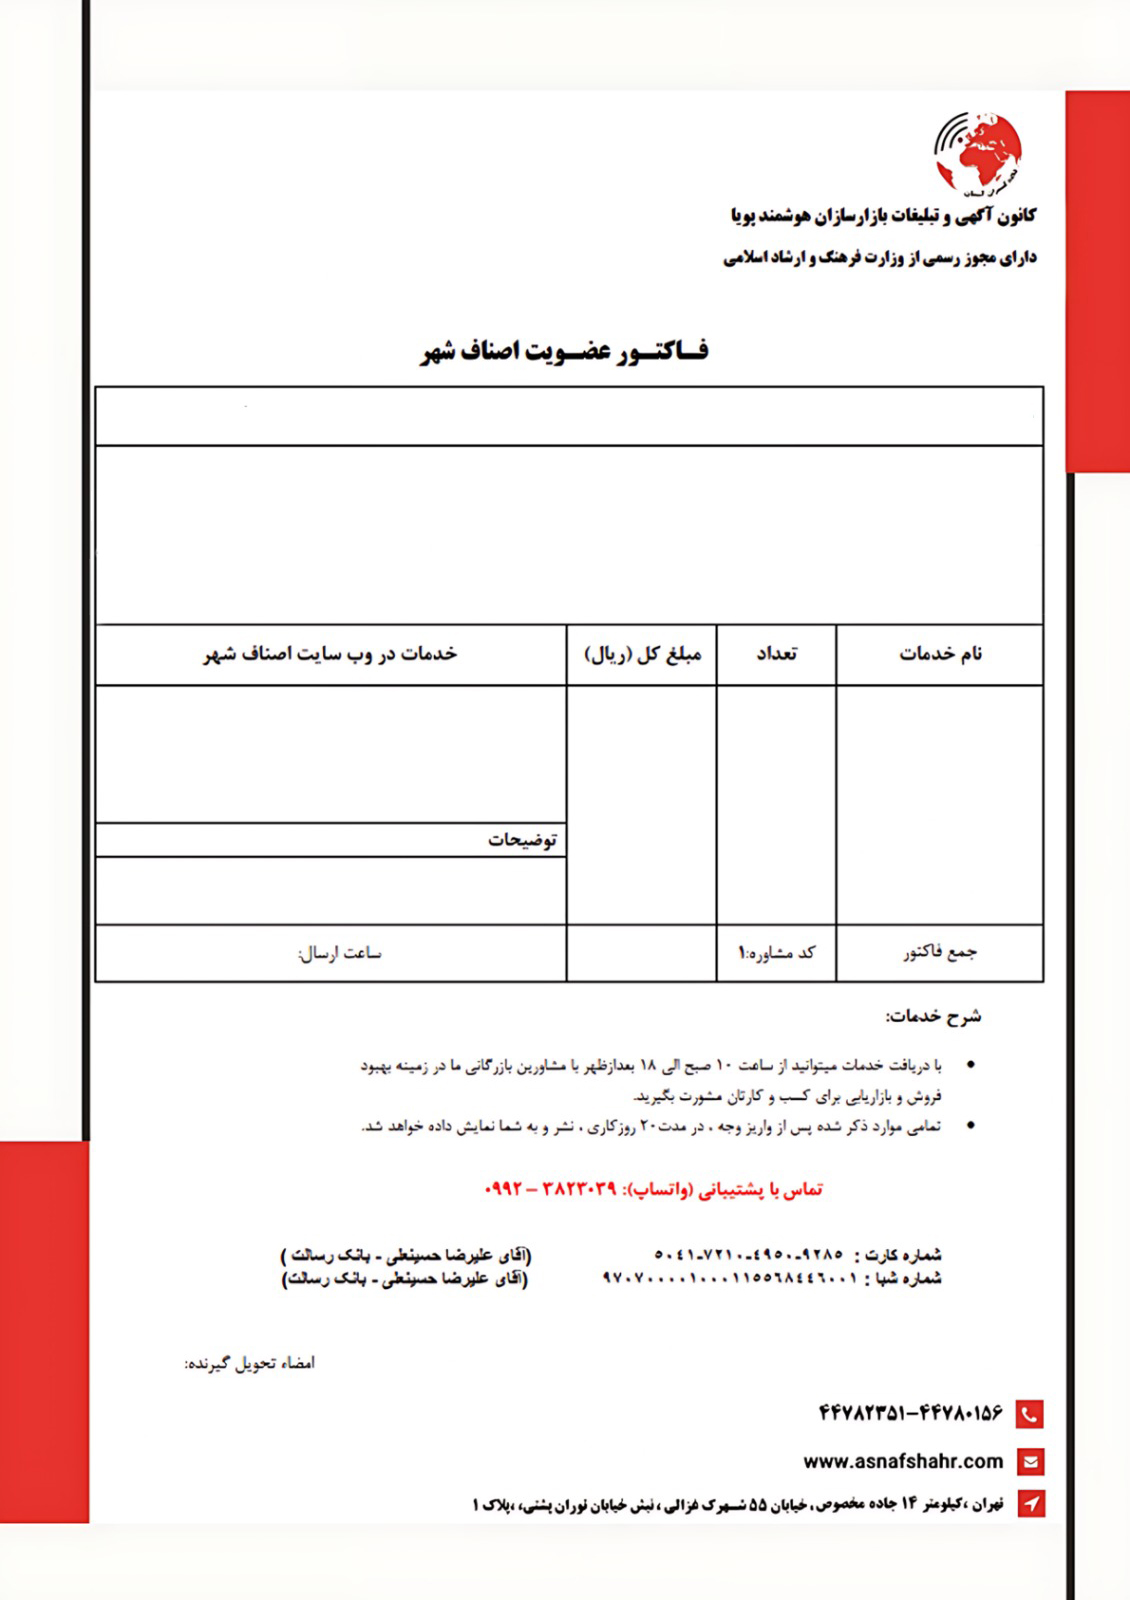
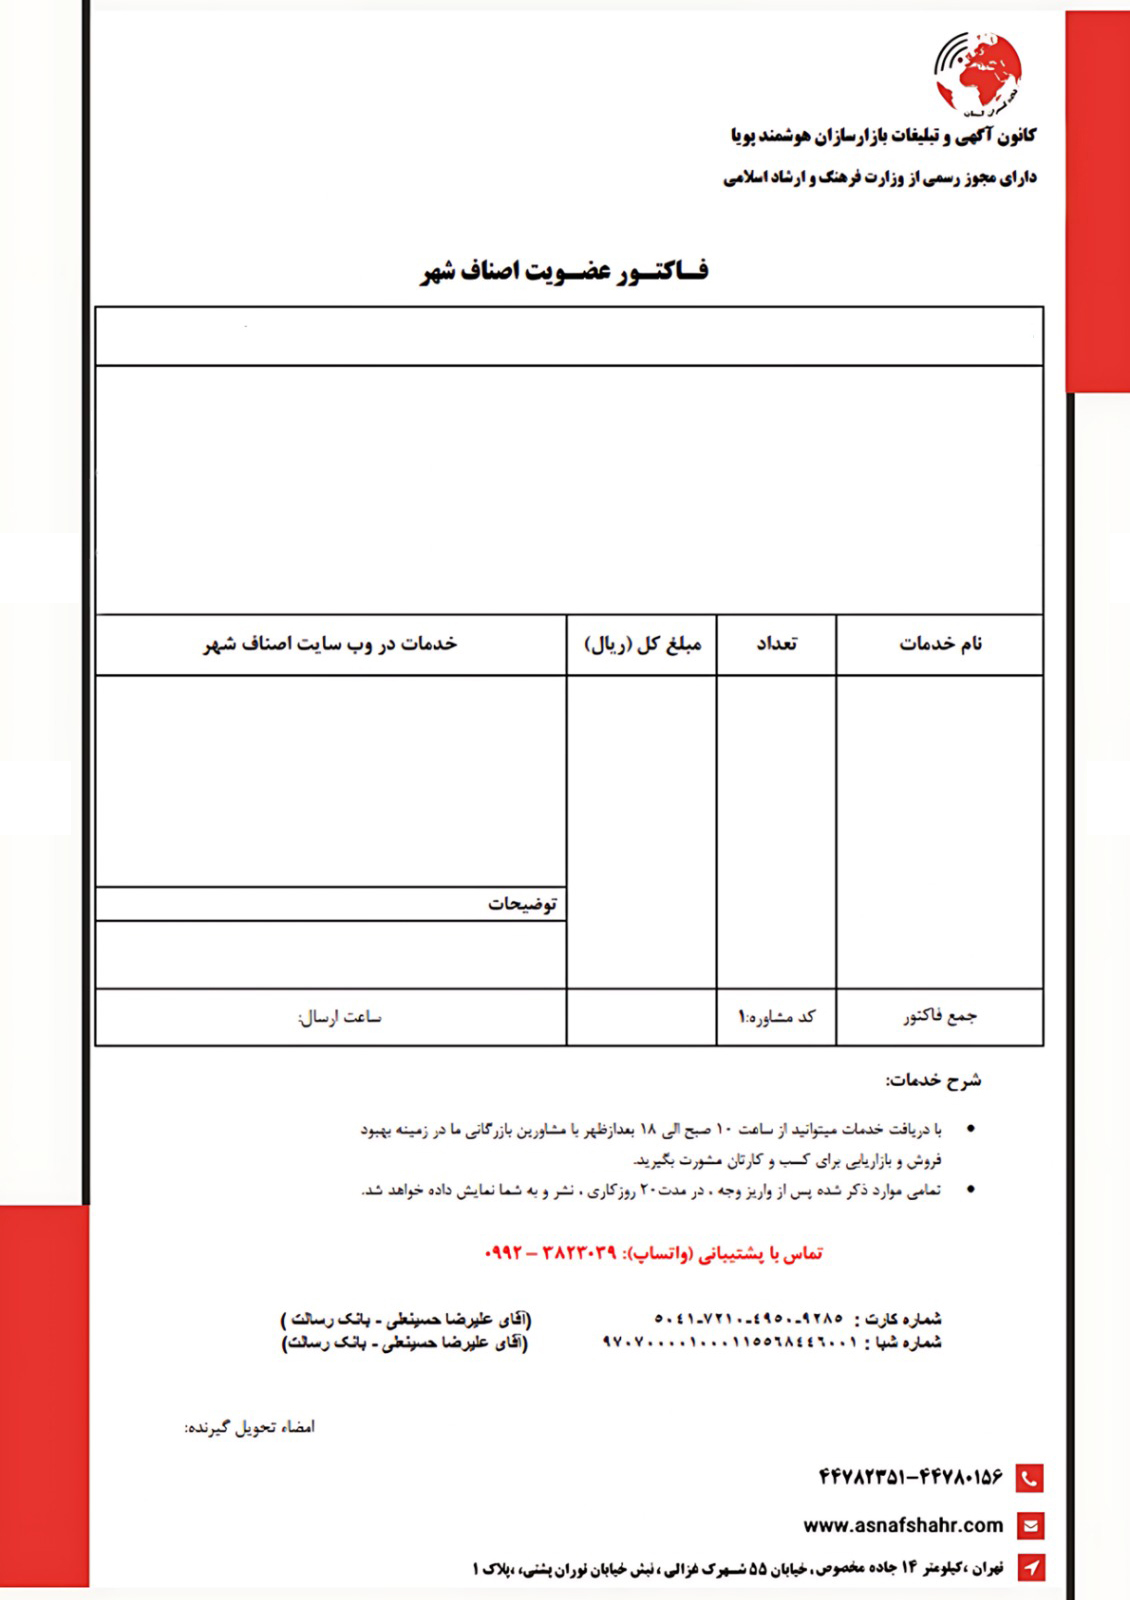
change

diff --git a/invoice/views.py b/invoice/views.py
@@ -22,6 +22,7 @@ def generate_invoice_pdf(request, pk):
     filename = f"فاکتور_{invoice.invoice_number}.pdf"
     response["Content-Disposition"] = f'inline; filename="{filename}"'
 
+    # تبدیل تاریخ میلادی به شمسی
     jalali_date = jdatetime.date.fromgregorian(date=invoice.date)
     jalali_date_str = f"{jalali_date.year}/{jalali_date.month}/{jalali_date.day}"
 
@@ -29,7 +30,7 @@ def generate_invoice_pdf(request, pk):
     width, height = A4
     margin = 40
 
-    # paths to fonts
+    # مسیر فونتها
     font_path = os.path.join(
         settings.BASE_DIR, "invoice", "static", "invoice", "fonts", "BTitrBold_0.ttf"
     )
@@ -45,78 +46,90 @@ def generate_invoice_pdf(request, pk):
         raise FileNotFoundError(f"فونت پیدا نشد: {nazanin_path}")
     pdfmetrics.registerFont(TTFont("Nazanin", nazanin_path))
 
-    # helper for Farsi display
+    # کمککننده برای نمایش فارسی
     def farsi(text):
         if not text:
             return ""
         reshaped = arabic_reshaper.reshape(str(text))
         return get_display(reshaped)
 
-    # helper for wrapping text
+    # کمککننده برای شکستن متن طولانی
     def fit_text(text, max_chars_per_line=60):
         return wrap(str(text), max_chars_per_line)
 
-    # background image
+    # پسزمینه فاکتور
     bg_path = os.path.join(
         settings.BASE_DIR, "invoice", "static", "invoice", "pics", "invoice_template.png"
     )
     if os.path.exists(bg_path):
         c.drawImage(bg_path, 0, 0, width=width, height=height, preserveAspectRatio=True)
 
-    # font sizes
-    default_font_size = 11  # ثابت برای متنهای عمومی
+    # سایز فونتها
+    default_font_size = 11
     special_font_size = invoice.font_size or default_font_size
 
-    # invoice header (سایز ثابت)
+    # --- سربرگ فاکتور ---
     c.setFont("Titr", default_font_size)
-    c.drawString(90, height - margin - 76, farsi(f"شماره فاکتور: {invoice.invoice_number}"))
-    c.drawString(88, height - margin - 98, farsi(f"تاریخ: {jalali_date_str}"))
+    c.drawString(90, height - margin - 30, farsi(f"شماره فاکتور: {invoice.invoice_number}"))
+    c.drawString(88, height - margin - 45, farsi(f"تاریخ: {jalali_date_str}"))
+
+    # 👇 ساعت ارسال (از پنل ادمین)
+    if invoice.send_time:
+        formatted_send_time = invoice.send_time.strftime("%H:%M")
+    else:
+        formatted_send_time = "—"
+    # پایین صفحه سمت چپ
+    c.setFont("Nazanin", 10)
+    c.drawString(130, 305, farsi(formatted_send_time))
 
     y = height - margin - 120
-    c.drawRightString(width - margin - 8, y + 1, farsi(f"شماره مجوز: {invoice.license_number or '-'}"))
-    c.drawRightString(width - margin - 11, y - 56, farsi(f"مدیریت: {invoice.agency_manager or '-'}"))
-    c.drawRightString(width - margin - 360, y - 56, farsi(f"نام صنف: {invoice.business_name or '-'}"))
+    c.setFont("Titr", default_font_size)
+    c.drawRightString(width - margin - 8, y + 40, farsi(f"شماره مجوز: {invoice.license_number or '-'}"))
+    c.drawRightString(width - margin - 11, y - 20, farsi(f"مدیریت: {invoice.agency_manager or '-'}"))
+    c.drawRightString(width - margin - 330, y - 20, farsi(f"نام صنف: {invoice.business_name or '-'}"))
 
-    # address (فقط از فیلد address و با سایز خاص)
-    c.setFont("Titr", special_font_size)
-    address_lines = fit_text(invoice.address or '-', 60)
-    for i, line in enumerate(address_lines):
-        c.drawRightString(
-            width - margin - 10,
-            y - 108 - (i * (special_font_size + 2)),
-            farsi(line)
-        )
+    # آدرس (شمارهدار)
+    c.setFont("Nazanin", special_font_size)
+    raw_lines = (invoice.address or '-').splitlines()
 
-    # phone numbers (سایز خاص)
-    c.setFont("Titr", special_font_size)
+    for i, line in enumerate(raw_lines):
+        numbered_line = f"{i + 1} - {line.strip()}"
+        wrapped_lines = fit_text(numbered_line, 60)
+        for j, wline in enumerate(wrapped_lines):
+            c.drawRightString(
+                width - margin - 10,
+                y - 45 - ((i + j) * (special_font_size + 3)),
+                farsi(wline)
+            )
+
+    # شماره تماس — ✅ اصلاح شد: استفاده از raw_lines
     c.drawRightString(
         width - margin - 10,
-        y - 127 - (len(address_lines) * (special_font_size + 2)),
+        y - 85 - (len(raw_lines) * (special_font_size + 2)),
         farsi(f"تماس: {invoice.phone_numbers or '-'}")
     )
 
-    # service first description (سایز خاص)
+    # توضیح اولین خدمت
     if services.exists():
-        c.setFont("Titr", special_font_size)
-        # شکستن متن بر اساس خطهای جدید (Shift+Enter) یا طول زیاد
-        raw_lines = (services[0].description or '-').splitlines()
+        c.setFont("Nazanin", special_font_size)
+        service_lines = (services[0].description or '-').splitlines()
         desc_texts = []
-        for line in raw_lines:
-            desc_texts.extend(fit_text(line, 60))  # حتی اگه یک خط طولانی بود، بشکنش
+        for line in service_lines:
+            desc_texts.extend(fit_text(line, 60))
 
         base_y = y - 210
         for i, line in enumerate(desc_texts):
             c.drawRightString(
                 width - margin - 263,
-                base_y - (i * (special_font_size + 3)),  # فاصله بیشتر بین خطوط
+                base_y - (i * (special_font_size + 3)),
                 farsi(line)
             )
 
-    # invoice general description (سایز ثابت)
-    c.setFont("Titr", default_font_size)
-    c.drawRightString(width - margin - 263, y - 300, farsi(f"{invoice.description or '-'}"))
+    # توضیحات عمومی فاکتور
+    c.setFont("Nazanin", default_font_size)
+    c.drawRightString(width - margin - 263, y - 335, farsi(f"{invoice.description or '-'}"))
 
-    # services table
+    # جدول خدمات
     total = 0
     len_s = 0
     for s in services:
@@ -125,24 +138,17 @@ def generate_invoice_pdf(request, pk):
         len_s += 20
         amount_str = f"{int(s.amount):,}" if s.amount else "0"
 
-        # service name (سایز ثابت بزرگتر)
         c.setFont("Nazanin", default_font_size + 3)
-        c.drawRightString(
-            width - margin - 40,
-            y - (y_s + len_s),
-            farsi(f"{s.name_farsi}")
-        )
+        c.drawRightString(width - margin - 40, y - (y_s + len_s), farsi(f"{s.name_farsi}"))
 
-        # quantity and amount (سایز ثابت)
-        c.setFont("Titr", default_font_size)
-        c.drawRightString(width - margin - 142, y - (y_s + len_s), farsi(f"{s.quantity}"))
+        c.setFont("Nazanin", default_font_size)
+        c.drawRightString(width - margin - 142, y - (y_s + len_s), farsi(str(s.quantity)))
         c.drawRightString(width - margin - 190, y - (y_s + len_s), farsi(f"{amount_str * s.quantity}"))
 
-    # total amount (سایز ثابت)
+    # جمع کل
     total_str = f"{int(total):,}"
-    c.drawRightString(width - margin - 190, y - 345, farsi(f"{total_str}"))
+    c.drawRightString(width - margin - 187, y - 376, farsi(total_str))
 
     c.showPage()
     c.save()
-
     return response

diff --git a/invoice/admin.py b/invoice/admin.py
@@ -1,53 +1,67 @@
-# invoice/admin.py
 from django.contrib import admin
 from django.utils.html import format_html
 from django.urls import reverse
+from django import forms
 from .models import Invoice, ServiceItem
+
+
+class InvoiceAdminForm(forms.ModelForm):
+    """فرم سفارشی برای کنترل ساعت ارسال (HH:MM)"""
+    class Meta:
+        model = Invoice
+        fields = "__all__"
+        widgets = {
+            "send_time": forms.TimeInput(format="%H:%M"),
+        }
 
 
 class ServiceItemInline(admin.TabularInline):
     """نمایش خدمات مربوطه در پایین صفحه فاکتور داخل پنل ادمین"""
     model = ServiceItem
-    extra = 1  # تعداد خطوط خالی برای افزودن خدمت جدید
-    fields = ('service_name', 'quantity', 'amount', 'description')
+    extra = 1
+    fields = ("service_name", "quantity", "amount", "description")
     verbose_name = "خدمت"
     verbose_name_plural = "خدمات"
-    # فیلدهای choice (service_name) به صورت select خودکار نشان داده میشوند چون choices در مدل تنظیم شده
 
 
 @admin.register(Invoice)
 class InvoiceAdmin(admin.ModelAdmin):
     """مدیریت فاکتورها در پنل ادمین"""
+    form = InvoiceAdminForm
     list_display = (
-        'id',
-        'invoice_number',
-        'business_name',
-        'agency_manager',
-        'total_price_display',
-        'invoice_date_jalali',
-        'pdf_link',
+        "id",
+        "invoice_number",
+        "business_name",
+        "agency_manager",
+        "total_price_display",
+        "invoice_date_jalali",
+        "send_time",
+        "pdf_link",
     )
-    list_display_links = ('id', 'business_name')
-    search_fields = ('invoice_number', 'business_name', 'agency_manager', 'license_number')
-    ordering = ('-id',)
-    inlines = [ServiceItemInline]  # 👈 اضافه شدن جدول خدمات به صفحه فاکتور
+    list_display_links = ("id", "business_name")
+    search_fields = ("invoice_number", "business_name", "agency_manager", "license_number")
+    ordering = ("-id",)
+    inlines = [ServiceItemInline]
 
     def total_price_display(self, obj):
-        """نمایش مجموع فاکتور با جداکننده هزارگان"""
+        """نمایش جمع کل فاکتور با فرمت هزارگان"""
         try:
             total = obj.total_amount()
             return f"{total:,.0f} ریال"
         except Exception:
             return "—"
+
     total_price_display.short_description = "جمع کل"
 
     def invoice_date_jalali(self, obj):
-        """تبدیل تاریخ به فرمت شمسی"""
+        """نمایش تاریخ شمسی"""
         return obj.get_jalali_date()
+
     invoice_date_jalali.short_description = "تاریخ فاکتور"
 
     def pdf_link(self, obj):
-        """لینک مستقیم به PDF فاکتور"""
-        url = reverse('invoice-pdf', args=[obj.pk])
+        """نمایش لینک مستقیم به PDF فاکتور"""
+        url = reverse("invoice-pdf", args=[obj.pk])
         return format_html('<a href="{}" target="_blank">📄 نمایش PDF</a>', url)
+
     pdf_link.short_description = "PDF فاکتور"

diff --git a/invoice/migrations/0002_invoice_send_time_alter_invoice_font_size.py b/invoice/migrations/0002_invoice_send_time_alter_invoice_font_size.py
@@ -1,0 +1,23 @@
+# Generated by Django 5.2.6 on 2025-10-25 16:46
+
+from django.db import migrations, models
+
+
+class Migration(migrations.Migration):
+
+    dependencies = [
+        ('invoice', '0001_initial'),
+    ]
+
+    operations = [
+        migrations.AddField(
+            model_name='invoice',
+            name='send_time',
+            field=models.TimeField(blank=True, null=True, verbose_name='ساعت ارسال'),
+        ),
+        migrations.AlterField(
+            model_name='invoice',
+            name='font_size',
+            field=models.IntegerField(choices=[(6, '6 pt'), (7, '7 pt'), (8, '8 pt'), (9, '9 pt'), (10, '10 pt'), (11, '11 pt'), (12, '12 pt'), (13, '13 pt'), (14, '14 pt')], default=10, verbose_name='اندازه فونت (PDF)'),
+        ),
+    ]

diff --git a/invoice/models.py b/invoice/models.py
@@ -30,9 +30,10 @@ class Invoice(models.Model):
     address = models.TextField(verbose_name="آدرس")
     phone_numbers = models.TextField(verbose_name="شماره تلفن")
     description = models.TextField(default="-", null=True, blank=True, verbose_name="توضیحات")
+    send_time = models.TimeField(null=True, blank=True, verbose_name="ساعت ارسال")
     font_size = models.IntegerField(
         choices=FONT_SIZE_CHOICES,
-        default=10,
+        default=11,
         verbose_name="اندازه فونت (PDF)"
     )
     created_at = models.DateTimeField(auto_now_add=True)
